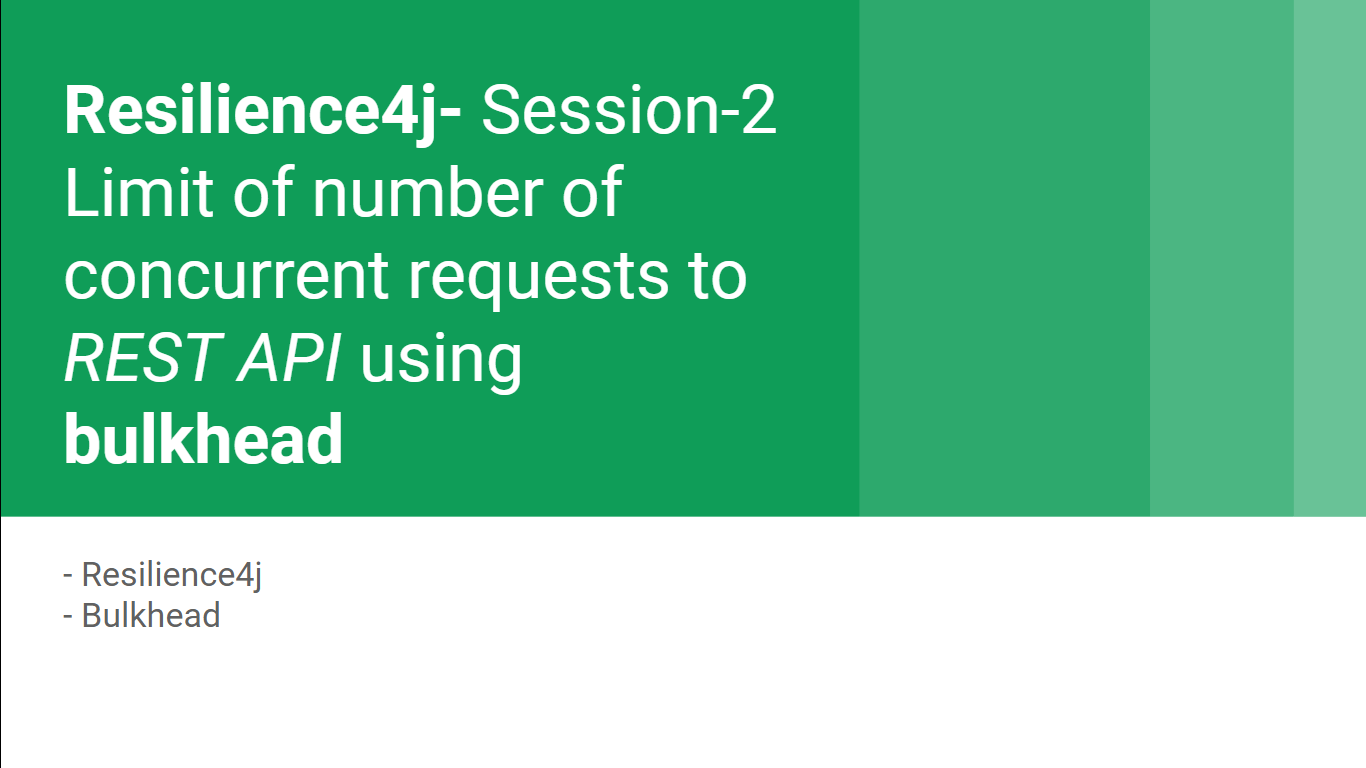
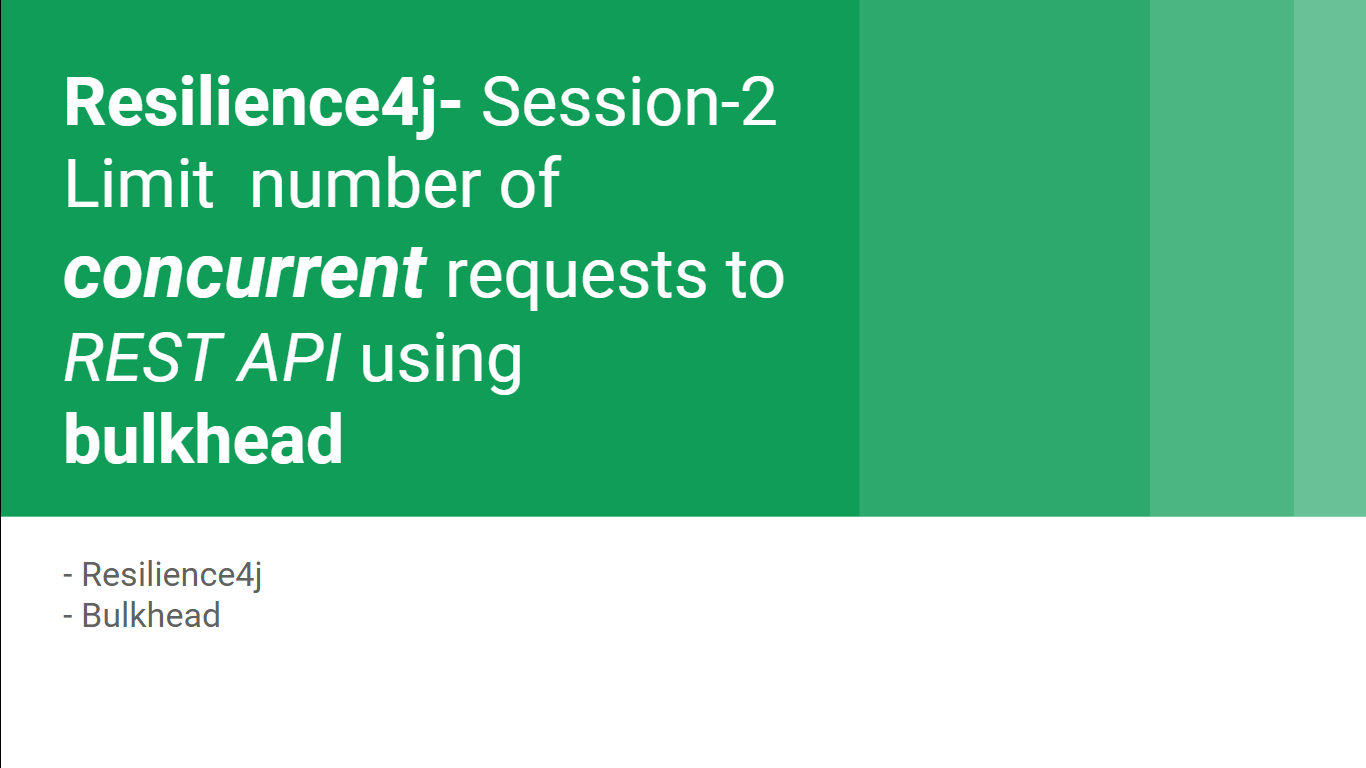
updated readme

Changed region(s): [[0.0307, 0.0938, 0.5842, 0.2812], [0.0307, 0.3125, 0.5842, 0.4062]]

diff --git a/bulkhead/README.md b/bulkhead/README.md
@@ -15,8 +15,8 @@ is thrown and user is served with HTTP status code 429 (Too Many Requests)
 # Source Code 
 - [https://github.com/balajich/resilience4j-helloworld/tree/master/bulkhead](https://github.com/balajich/resilience4j-helloworld/tree/master/bulkhead) 
 # Video
-[![Spring Cloud Session-7 Centralized Configuration](https://img.youtube.com/vi/9hdTfz7NOqs/0.jpg)](https://www.youtube.com/watch?v=9hdTfz7NOqs)
-- https://youtu.be/9hdTfz7NOqs
+[![Resilience4j- Session-2  Limit of number of concurrent requests to RESTAPI using bulkhead](https://img.youtube.com/vi/35fTH9G8gT0/0.jpg)](https://www.youtube.com/watch?v=35fTH9G8gT0)
+- https://youtu.be/35fTH9G8gT0
 # Architecture
 ![architecture](architecture.png "architecture")
 # Prerequisite

diff --git a/README.md b/README.md
@@ -8,3 +8,4 @@ subsequent requests to it. In this way, we can save system resources for calls w
 - Using **Retry** automatically retry a failed call. 
 
 **Note**: Please refer respective subfolders for documentation and example code.
+
